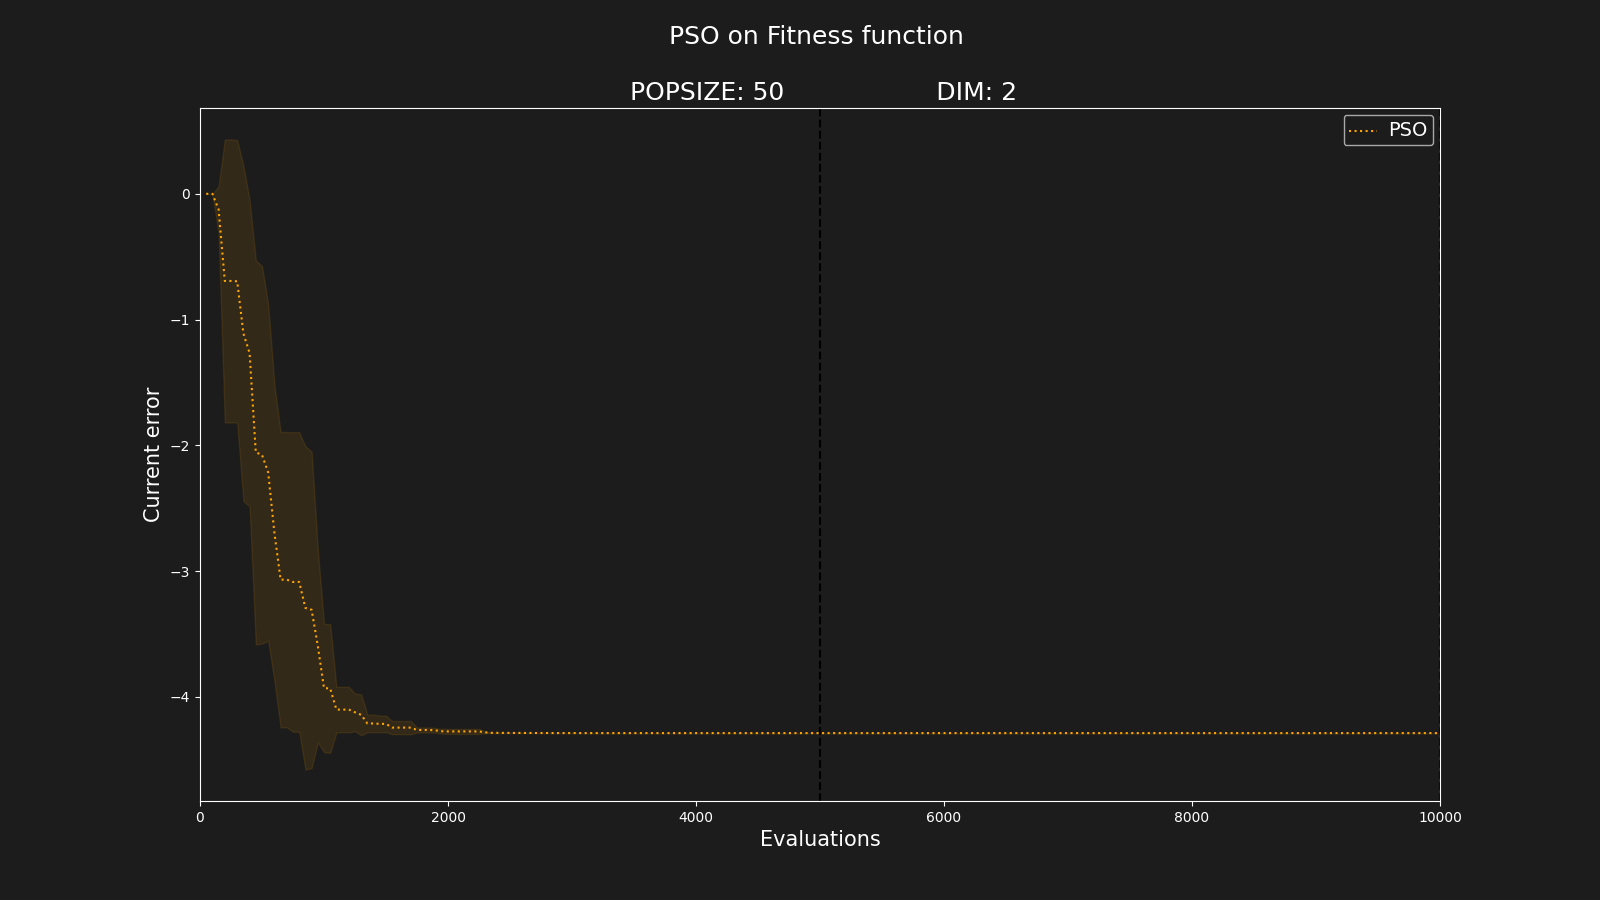
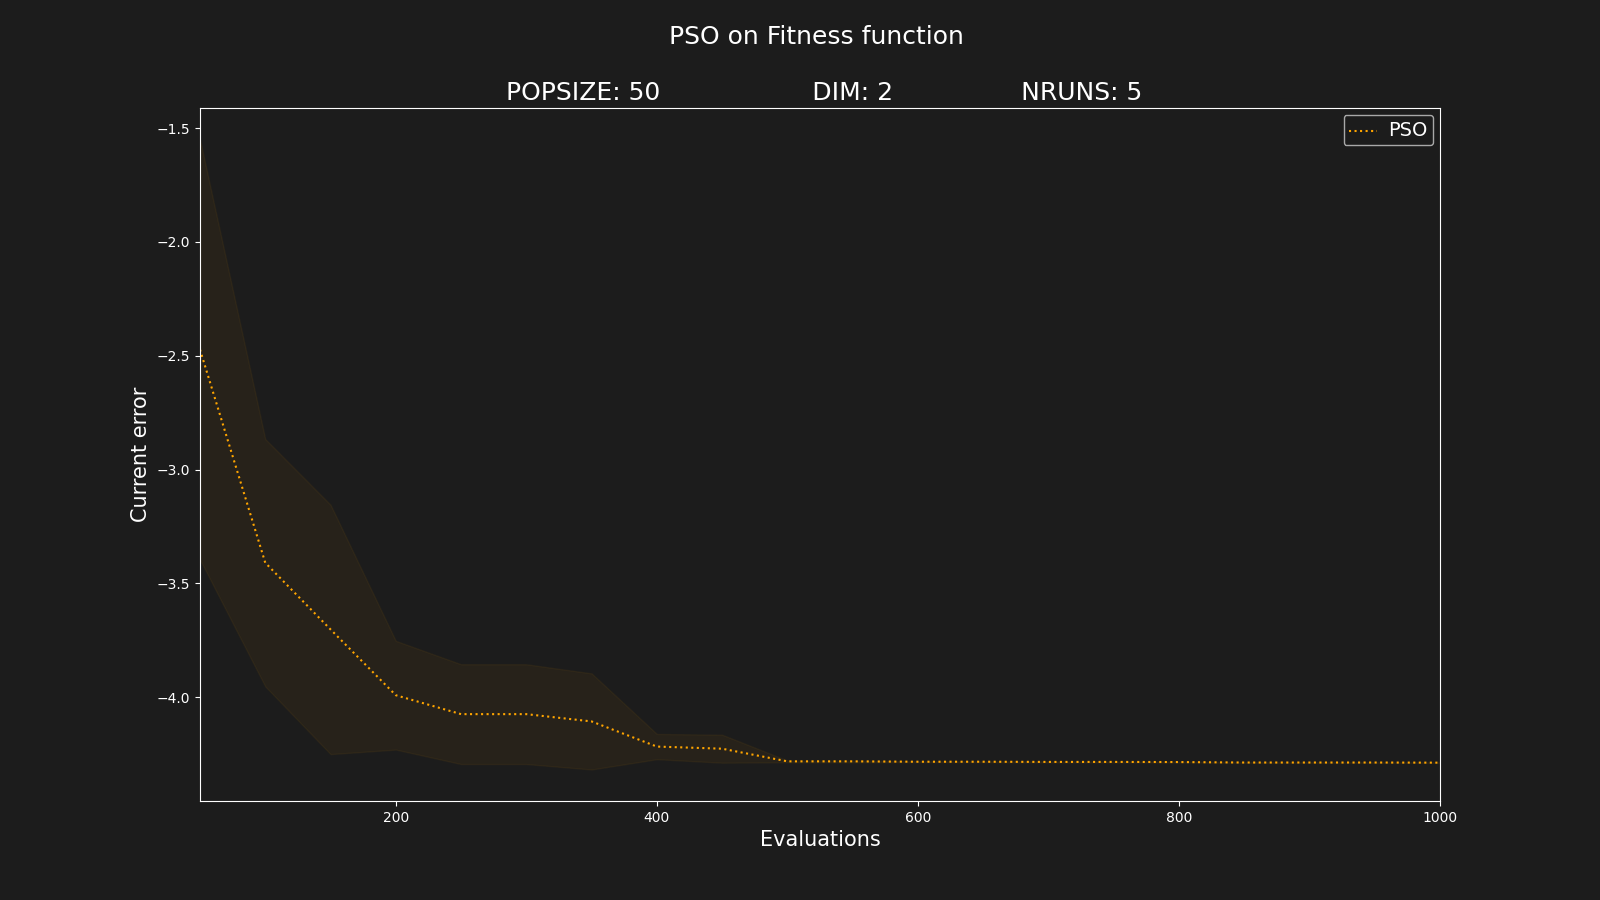
examples

diff --git a/use.html b/use.html
@@ -101,8 +101,8 @@ Below a description and how to use these files is made.
 	<span style="color: white">"__COMMENT__": "BASIC CONFIGURATION",</span><br>
 	<span style="color: white">"ALGORITHM": "PSO",</span> <span style="color: yellow">-> Name of the algorithm. (</i>char</i>)</span><br>
 	<span style="color: white">"POPSIZE": 50,</span></span> <span style="color: yellow">-> Number of individuals in the population. If there are more than one population, this number applies for each subpopulation. (<i>int</i>)</span><br>
-	<span style="color: white">"MIN_POS": 0,</span></span> <span style="color: yellow">-> Min value of the search space. (<i>int</i>)</span><br>
-	<span style="color: white">"MAX_POS": 100,</span></span> <span style="color: yellow">-> Max value of the search space. (<i>int</i>)</span><br>
+	<span style="color: white">"MIN_POS": -10,</span></span> <span style="color: yellow">-> Min value of the search space. (<i>int</i>)</span><br>
+	<span style="color: white">"MAX_POS": 10,</span></span> <span style="color: yellow">-> Max value of the search space. (<i>int</i>)</span><br>
 	<span style="color: white">"__COMMENT__": "OPTIMIZER CONFIGURATION",</span><br>
 	<span style="color: white">"GA_POP_PERC": 0,</span></span> <span style="color: yellow">-> Percentage of the individuals in the population that it will perform the <i>Genetic Algorithm (GA)</i>. (<i>float</i>) in <i>[0, 1]</i></span><br>
 	<span style="color: white">"GA_ELI_PERC": 0.2,</span></span> <span style="color: yellow">-> Hyper-parameter percentage of the elit in the GA population. (<i>float</i>) in <i>[0, 1]</i></span><br>
@@ -115,8 +115,8 @@ Below a description and how to use these files is made.
 	<span style="color: white">"PSO_PHI1": 2.05,</span></span> <span style="color: yellow">-> Hyper-parameter &sigma;<sub>1</sub> of the PSO. (<i>float</i>) in <i>[0, 10]</i></span><br>
 	<span style="color: white">"PSO_PHI2": 2.05,</span></span> <span style="color: yellow">-> Hyper-parameter &sigma;<sub>2</sub> of the PSO. (<i>float</i>) in <i>[0, 10]</i></span><br>
 	<span style="color: white">"PSO_W": 0.729,</span></span> <span style="color: yellow">-> Hyper-parameter &omega; of the PSO. (<i>float</i>) in <i>[0, 10]</i></span><br>
-	<span style="color: white">"PSO_MIN_VEL": -100,</span></span> <span style="color: yellow">-> Min value of the speed of the PSO individuals. (<i>float</i>) in <i>[-(MAX_POS-MIN_POS), MAX_POS-MIN_POS]</i></span><br>
-	<span style="color: white">"PSO_MAX_VEL": 100,</span></span> <span style="color: yellow">-> Max value of the speed of the PSO individuals. (<i>float</i>) in <i>[-(MAX_POS-MIN_POS), MAX_POS-MIN_POS]</i></span><br>
+	<span style="color: white">"PSO_MIN_VEL": -10,</span></span> <span style="color: yellow">-> Min value of the speed of the PSO individuals. (<i>float</i>) in <i>[-(MAX_POS-MIN_POS), MAX_POS-MIN_POS]</i></span><br>
+	<span style="color: white">"PSO_MAX_VEL": 10,</span></span> <span style="color: yellow">-> Max value of the speed of the PSO individuals. (<i>float</i>) in <i>[-(MAX_POS-MIN_POS), MAX_POS-MIN_POS]</i></span><br>
 	<span style="color: white">"DE_POP_PERC": 0,</span></span> <span style="color: yellow">-> Percentage of the individuals in the population that it will perform the <i>Differential Evolution (DE)</i>. (<i>float</i>) in <i>[0, 1]</i></span><br>
 	<span style="color: white">"DE_F": 0.5,</span></span> <span style="color: yellow">-> Hyper-parameter <i>F</i> of the DE. (<i>float</i>) in <i>[0, 10]</i></span><br>
 	<span style="color: white">"DE_CR": 0.7,</span></span> <span style="color: yellow">-> Hyper-parameter <i>CR</i> of the DE. (<i>float</i>) in <i>[0, 10]</i></span><br>
@@ -153,7 +153,7 @@ Below a description and how to use these files is made.
 	<span style="color: white">"__COMMENT__": "FRAMEWORK CONFIGURATION",</span><br>
 	<span style="color: white">"RUNS": 5,</span> <span style="color: yellow">-> Number of runs. (<i>int</i>) > 0</span><br>
 	<span style="color: white">"FINISH_RUN_MODE": 0,</span> <span style="color: yellow">-> Mode to finish the run. 0 - <i>Fixed-budget</i>, finish when achieve a fixed number of evaluations (<i>int</i>) in <i>[0, 1]</i>; 1 - <i>Fixed-target</i>, run until achieve a error less than a fixed target. (<i>float</i>) > 0</span><br>
-	<span style="color: white">"FINISH_RUN_MODE_VALUE": 10000,</span></span> <span style="color: yellow">-> Number of evaluation if <i>FINISH_RUN_MODE = 1</i>  (<i>int</i>) > 1; Target error if <i>FINISH_RUN_MODE = 1</i>  (<i>float</i>) > 0. </span><br>
+	<span style="color: white">"FINISH_RUN_MODE_VALUE": 1000,</span></span> <span style="color: yellow">-> Number of evaluation if <i>FINISH_RUN_MODE = 1</i>  (<i>int</i>) > 1; Target error if <i>FINISH_RUN_MODE = 1</i>  (<i>float</i>) > 0. </span><br>
 	<span style="color: white">"SEED": 42,</span></span> <span style="color: yellow">-> The seed for the runs. (<i>float</i>)</span><br>
 	<span style="color: white">"PLOT": 0,</span></span> <span style="color: yellow">-> Save the performance curves of the runs. (<i>bool</i>)</span><br>
 	<span style="color: white">"CONFIG_COPY": 1,</span></span> <span style="color: yellow">-> Save the configuration files. (<i>bool</i>)</span><br>
@@ -338,7 +338,7 @@ And the files generated it will be:
         <br>
         <span style="color: white; font-size: 13px">    [FRAMEWORK SETUP]</span><br>
         <span style="color: white; font-size: 13px">    - RUNS:		 5</span><br>
-        <span style="color: white; font-size: 13px">    - NEVALS p/ RUN: 10000</span><br>
+        <span style="color: white; font-size: 13px">    - NEVALS p/ RUN: 1000</span><br>
         <span style="color: white; font-size: 13px">    - SEED:		 42</span><br>
         <br>
         <span style="color: white; font-size: 13px">    [PROBLEM SETUP]</span><br>
@@ -427,7 +427,6 @@ To execute the plot feature you can use the following command:
     <br>
 
 
-
     <h3 style="color:green">>> ALTERNATIVE <<</h3>
 
     For this example, as is a differentiable function, we could find the minimum points algebraically using the derivatives. For this, we just need to set the first derivative of the function equal to zero.
@@ -480,15 +479,27 @@ To execute the plot feature you can use the following command:
     and the plots:
     <br><br>
     <div style="text-align: center;">
-        <img class="centerImg" src="images/PSO.png" alt="surface" style="width:100%;height:600px;">
-    </div>
-    <br>
-    <div style="text-align: center;">
         <img class="centerImg" src="images/PSO-2.png" alt="surface" style="width:100%;height:600px;">
     </div>
     <br>
-    <br><br>
-    For today that's all people.
+    <div style="text-align: center;">
+        <img class="centerImg" src="images/PSO-3.png" alt="surface" style="width:100%;height:600px;">
+    </div>
+    <br>
+    <h3 style="color:green">>> BONUS <<</h3>
+
+
+    Below is the performance curve of four different algorithms (PSO, GA, DE, ES) and with 30 runs, applied to the problem we defined above on the same plot for comparison.
+    <br>
+    <br>
+    <div style="text-align: center;">
+        <img class="centerImg" src="images/COMP.png" alt="surface" style="width:100%;height:600px;">
+    </div>
+    <br>
+
+
+
+    For today that's all folks.
 </div>
 
 
